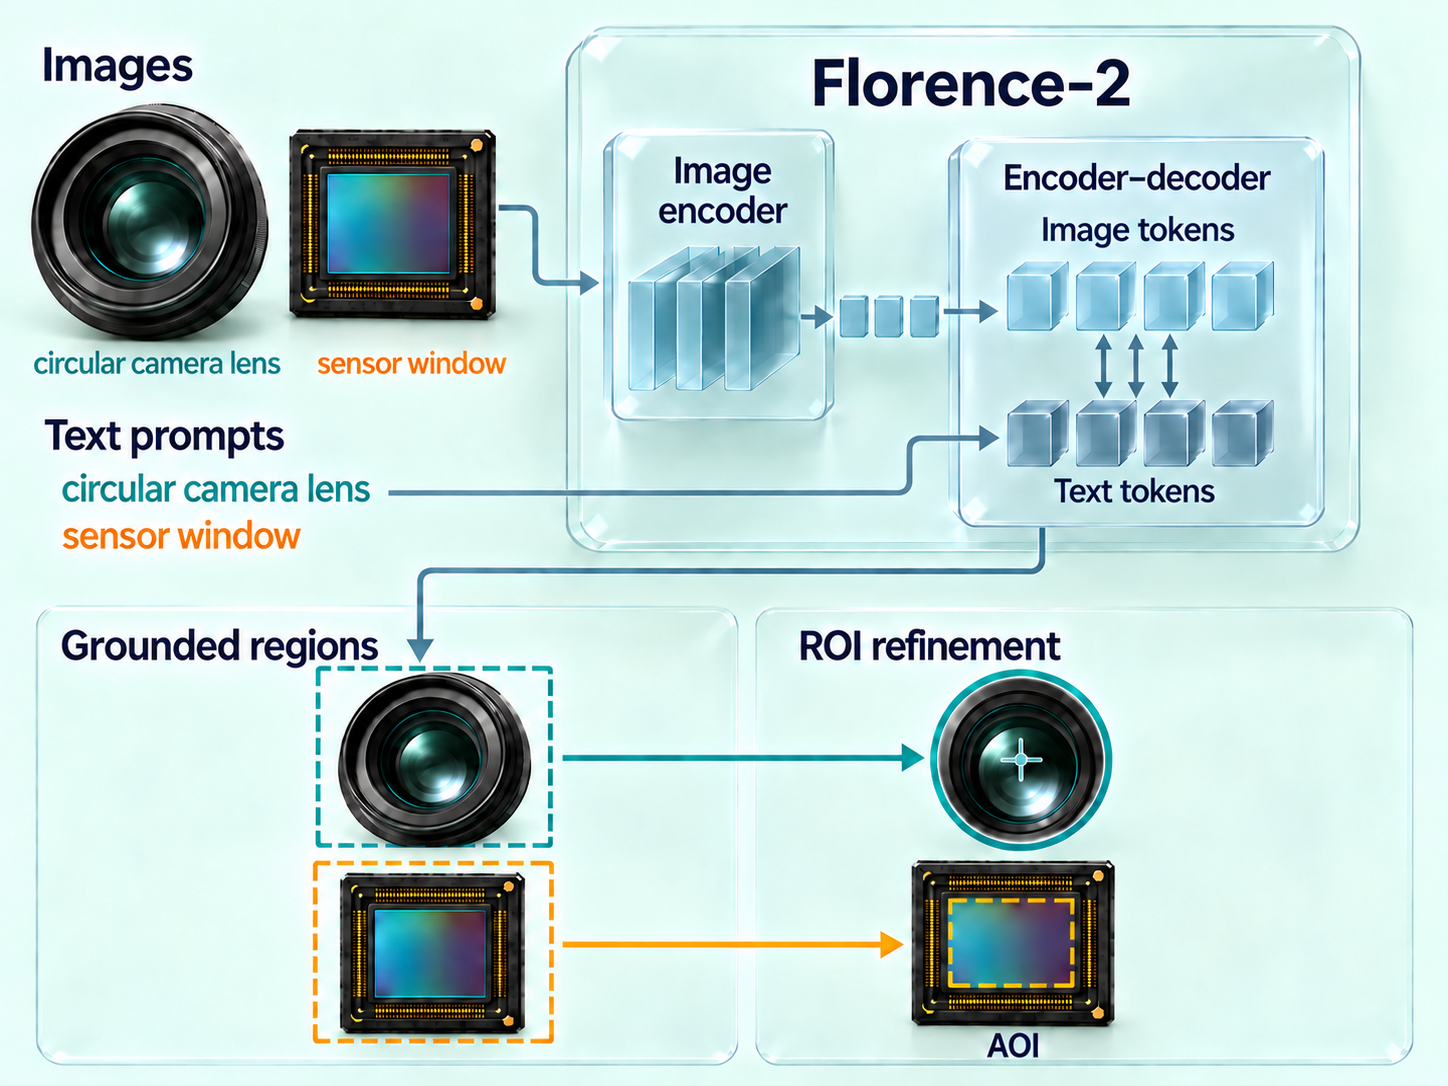
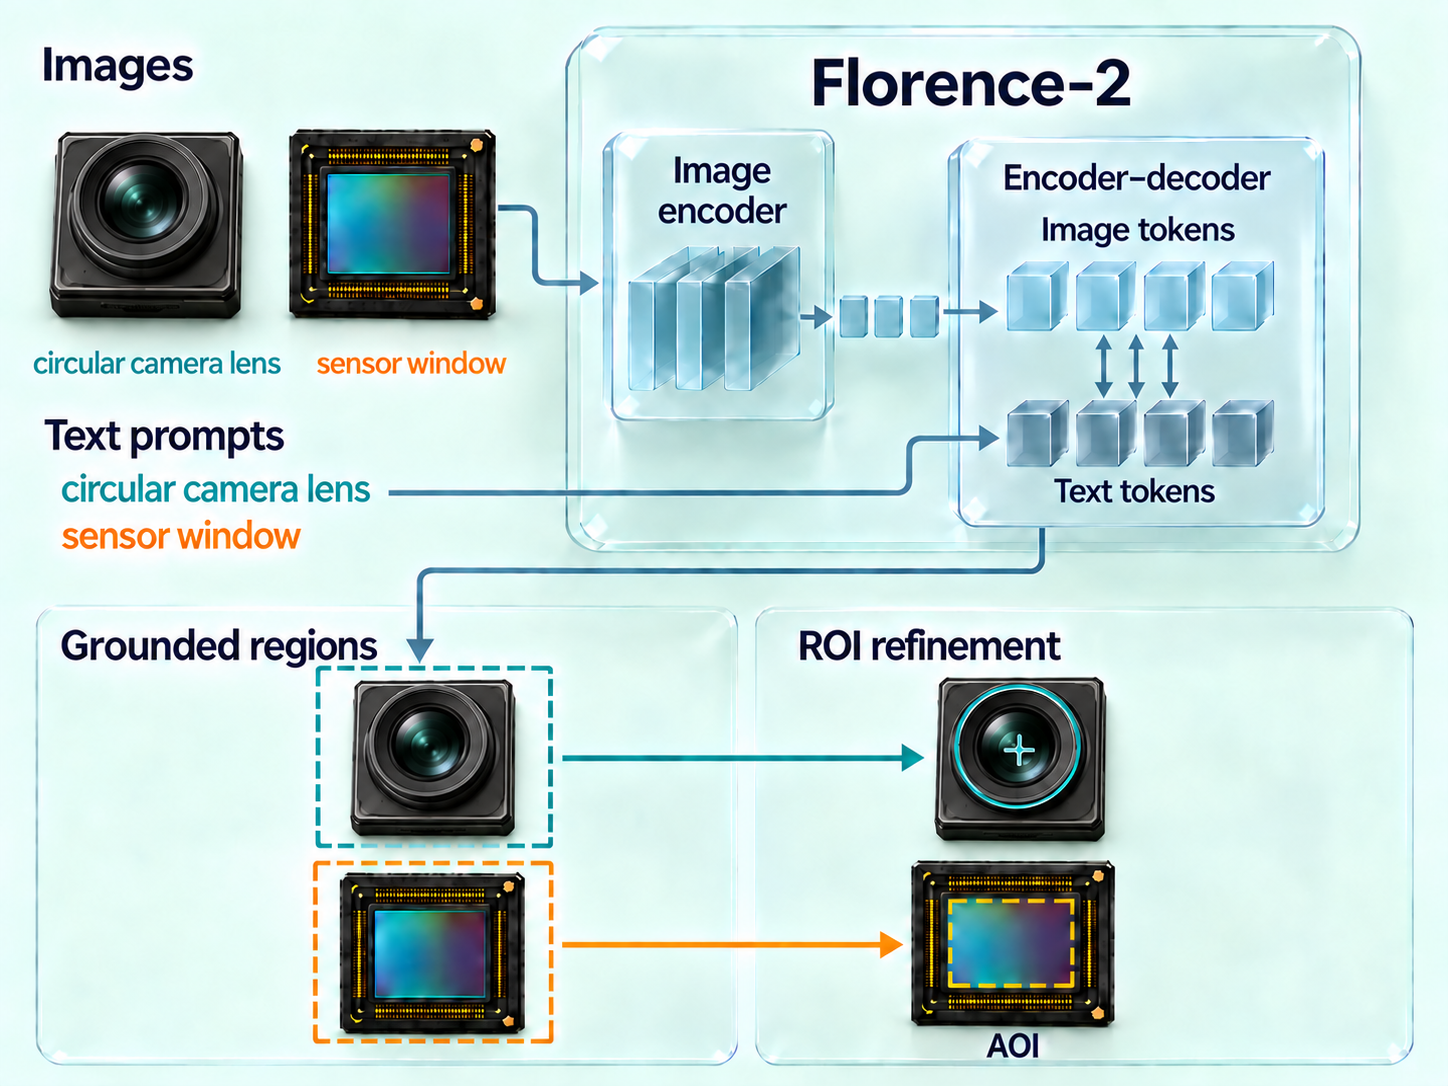
Clarify research significance and refine phone camera module illustration

diff --git a/docs/research-significance-and-phone-module-20260917.md b/docs/research-significance-and-phone-module-20260917.md
@@ -1,0 +1,38 @@
+# Research significance and phone-module illustration · 2026-09-17
+
+The user requested scientific significance at the end of current research entries 15 and 14, refined smartphone camera-module lenses in the Florence-2 figure using the supplied older illustration as a material reference, and another GitHub publishing attempt after login.
+
+## Research copy
+
+Entry 15 now ends with the role of an interpretable normal-structure reference: ongoing cross-focus analysis aims to reduce single-layer ambiguity and support anomaly localization under limited annotation. It does not claim validated cross-batch gains or completed cross-focus models. The image caption and accessible description continue to identify the focus trajectories as illustrative.
+
+Entry 14 now ends with the connection between semantic recognition and physical inspection boundaries, aiming to reduce background interference and component-specific localization rules. The sensor outer-crop / inner-region prompt / map-back sequence remains explicit. The closing sentence no longer reports C++ or Python implementation. Its status remains Prototype · ongoing evaluation.
+
+## Illustration provenance
+
+Validation: Jekyll build succeeded. Research checks at 1440/768/375/320px confirmed natural image aspect ratio, no horizontal overflow, all 15 entries and a working full-image link. Desktop/mobile screenshots and the two revised closing paragraphs were inspected. The Multi-focus figure and historical entries remain unchanged.
+
+Final asset: `assets/images/florence2-model-grounding.png`, 1448 × 1086, copied unmodified from built-in image_gen output `exec-e2d5fbcf-edc9-437a-98f6-2b835564163a.png`. The intermediate source was `exec-d0f55bc6-6f61-465e-ac91-a327b19fbae1.png`. No stretching, resampling or cropping was applied.
+
+The edit target was the approved two-tier model figure. The user's attached `codex-clipboard-1bab1f7f-c3e2-490b-9ddc-48417d757aa1.png` was used only as an optical-material and fine-detail reference. Lens input, candidate and refined views now depict a consistent compact phone-camera VCM module, without oversized DSLR barrels or gold mounting holes. Sensor package details were refined. Layout, token interaction, target/modal color separation, straight output arrows, ROI overlays and conceptual status are preserved.
+
+## Main object-edit prompt
+
+Precise object-quality edit of the existing Florence-2 scientific illustration.
+INPUT 1: edit target, the complete approved two-tier diagram.
+INPUT 2: material/detail reference ONLY. The user likes the refined optical glass, finely machined black surfaces, sensor package and metallic bond details in this older illustration. Do not adopt its old layout or its large photographic lens form.
+
+CHANGE ONLY THE OPTICAL OBJECT RENDERS:
+Replace all three current lens depictions (upper-left input, lower-left grounded candidate, lower-right refined ROI) with the SAME realistic SMALL SMARTPHONE CAMERA MODULE LENS design: a compact precision black cylindrical micro-lens barrel seated in a low-profile square smartphone camera module/VCM housing, finely concentric rims, small glossy multilayer optical aperture, subtle anti-reflection green-blue coating. This should read unmistakably as a phone camera module for optical manufacturing inspection, not a bulky DSLR/interchangeable camera lens or a toy, shiny ball, giant lens dome, or a thick decorative ring. The upper input may show a restrained three-quarter top view to reveal the compact square housing; the lower paired views show the same module from nearly overhead for a clear circular inspection region. Use physically plausible, delicate layered glass reflections and precisely machined texture with the photographic refinement of reference 2. Keep the aperture dark enough that it looks like real coated glass, not a luminous orb. Refine the small sensor packages in all three corresponding positions to match reference 2's fine gold connections, sharp package edges and smooth subtle green/purple photosensitive surface. Preserve their current overall shapes and positions.
+
+PRESERVE THE SCIENTIFIC OVERLAYS:
+The lower-left lens retains the dashed teal candidate box around the module. The lower-right module retains a fine teal fitted CIRCLE on the circular optical inspection aperture and a tiny center crosshair, not on the square housing. The lower-left sensor retains its dashed amber candidate box, and the final sensor AOI its amber inner dashed rectangle. Keep every lens-related semantic label/overlay teal, every sensor-related label/overlay amber. Model token rows and modality arrows remain neutral blue shades.
+
+DO NOT change anything else:
+Exact two-tier layout, current image sizes and available slots, natural object aspect ratios, all headings and text including both occurrences of "circular camera lens" and "sensor window", the "Florence-2" model, "Image encoder", shared "Encoder–decoder", "Image tokens" and "Text tokens" and their interaction, the flow model -> Grounded regions -> ROI refinement, ALL arrow endpoints, and the two STRAIGHT horizontal candidate-to-ROI arrows. Keep the pale sage glass style, compact 4:3 framing, safe margins and academic simplicity. Do not add labels, logos, complexity, extra devices or new conclusions. Do not stretch images. The camera module is a conceptual rendering, not an actual experimental photograph.
+
+## Camera-module physical-design refinement
+
+One small physical-design correction to the optical objects only. Preserve the complete approved two-tier Florence-2 diagram, all typography, token interactions, arrows, colors, positions, sensor chips and sage glass style.
+
+The three lens objects should be precision SMARTPHONE CAMERA VCM MODULES, not board cameras with four large gold screw holes. Keep the compact square module bodies and dark coated miniature lenses, but remove the four oversized gold mounting holes/rings at the corners in ALL THREE lens depictions. Replace these with the clean small chamfered corners and fine dark/brushed-metal actuator housing of a miniature phone camera module. Keep a low-profile, finely stepped cylindrical micro-lens barrel seated inside the small square VCM housing. Delicate blue-green anti-reflection highlights, realistic dark glass, elegant machining, no bright glowing orb. No wide DSLR focusing ring, no giant screw mounts, no exposed circuit board. Keep the same module design consistent in the input, grounded candidate and refined ROI. Preserve the existing dashed teal candidate box and fitted teal optical aperture circle with its small center mark. Keep the sensor renders unchanged. Do not add any labels or change the composition. Natural proportions, no stretching.

diff --git a/docs/trajectory-model-figures-20260916.md b/docs/trajectory-model-figures-20260916.md
@@ -5,7 +5,7 @@ These project-bound PNGs are conceptual illustrations edited using the built-in 
 - Page asset: `assets/images/multi-focus-trajectories.png`; edit target: `assets/images/polar-fourier-optics.png`.
 - Page asset: `assets/images/florence2-model-grounding.png`; edit target: `assets/images/florence2-multimodal-optics.png`.
 
-Final generated sources: `exec-0326c656-4388-4ad4-8a12-c76e68a4df18.png` for the focus illustration and `exec-3458beae-b1dc-4390-85f2-12a04e75e7ce.png` for the model illustration. Both final sources are copied unmodified. The model image (1448 × 1086) places inputs and Florence-2 above grounded candidates and ROI refinement. The latest correction reserves teal/amber for target identity, uses neutral blue tones for modality tokens and replaces the sensor-to-AOI elbow with a straight arrow. Natural proportions, token interaction and lens overlays are preserved; see [two-tier layout and color record](florence-two-tier-layout.md). Token strips and interaction arrows abstract multimodal fusion, not a claim about token counts or an exact attention implementation.
+Final generated sources: `exec-0326c656-4388-4ad4-8a12-c76e68a4df18.png` for the focus illustration and `exec-e2d5fbcf-edc9-437a-98f6-2b835564163a.png` for the model illustration. Both final sources are copied unmodified. The model image (1448 × 1086) places inputs and Florence-2 above grounded candidates and ROI refinement. Compact phone-camera modules replace the previous bulky lenses; see [the latest object-edit record](research-significance-and-phone-module-20260917.md). Teal/amber target identity, neutral-blue modality tokens, their interaction, straight result arrows, natural proportions and ROI overlays are preserved. Token strips and interaction arrows abstract multimodal fusion, not a claim about token counts or an exact attention implementation.
 
 The owner explicitly specified a 25-layer input. A stack notation may abbreviate visible planes; it does not imply that several distinct physical lenses are being stacked. The matched D/N regions and illustrative curves explain the proposed comparison of response strength and shape across focus. Normal responses may persist and vary across the same sequence. The drawn defect trajectory is one conceptual example, not a universal shape or a measured finding. No experimental performance or completed cross-focus model is claimed.
 

diff --git a/docs/florence-two-tier-layout.md b/docs/florence-two-tier-layout.md
@@ -1,5 +1,7 @@
 # Florence-2 two-tier layout
 
+The latest asset retains this layout and color logic with refined smartphone camera-module renders. See [the 2026-09-17 object-edit and research-copy record](research-significance-and-phone-module-20260917.md) for the current source image and prompts; source IDs below document the earlier layout/color revision.
+
 The user requested moving Grounded regions and ROI refinement below the input/model section because the previous illustration was too wide.
 
 Final project asset: `assets/images/florence2-model-grounding.png`, 1448 × 1086. Generated using the built-in image_gen tool and copied unmodified from `exec-3458beae-b1dc-4390-85f2-12a04e75e7ce.png`. This final color/connector edit used the two-tier source `exec-197f6ffd-72f8-4529-8280-5b52c4fd39e1.png`; the intermediate layout source was `exec-9872c0df-c8cc-45a4-9a3e-649b62b4dd3d.png`. No resampling, stretching or cropping was applied to the final output.
